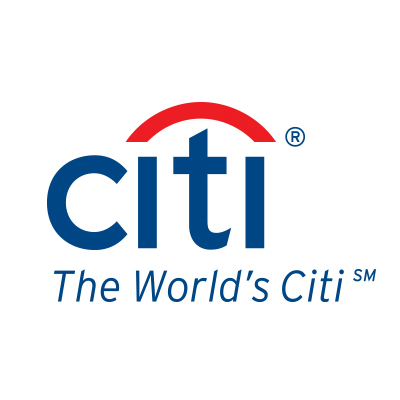
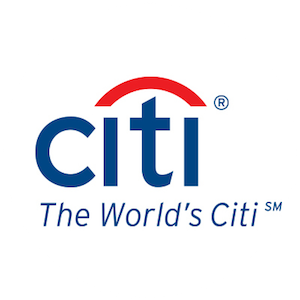
added the sponsors to the sponsor page

diff --git a/sponsor.md b/sponsor.md
@@ -13,6 +13,14 @@ Sponsorship for the society is used to support our key activities: [events]({{ "
 
 We've detailed below our three sponsorship packages which cover each our main activity areas. If you have an alternative proposition though we'd love to hear from you! Please contact our president ([Alexis Monks](mailto:president@wiebristol.co.uk)) or our treasurer ([Ed Nutting](mailto:treasurer@wiebristol.co.uk)).
 
+## Our sponsors
+
+<div>
+  <a href = "http://www.citigroup.com/citi/"><img src="/images/citi.png"></a>
+  <a href = "http://www.pwc.co.uk"><img src="/images/pwc.png"></a>
+  <a href = "http://www.bloomberg.com"><img src="/images/bloomberg.png"></a>
+</div>
+
 ## Packages
 
 <i>{% include file file="wie-sponsorship-packages.pdf" text="Download a PDF copy of the information on this page" %}</i>
